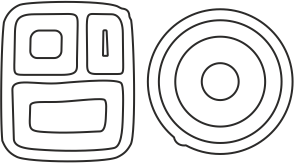
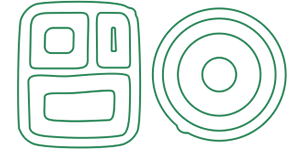
resizing of product grid bioware

Changed region(s): [[0.0, 0.0, 1.0, 1.0]]

diff --git a/pages/bioware/bioware_home.tsx b/pages/bioware/bioware_home.tsx
@@ -90,11 +90,11 @@ const BiowareHome = () => {
                         everyday needs.
                     </p>
                 </div>
-                <div className="bg-gray-100 border-solid border mx-40 px-2 py-10 grid grid-cols-6 items-center">
+                <div className="bg-gray-100 border-solid border mx-40 px-3 py-12 grid grid-cols-6 items-center">
                     {images.gridProductsImage.map((item, index) => {
                         return (
                             <div className="flex justify-center" key={index}>
-                                <img alt={item.alt} src={item.src} className="w-[70%] h-[70%]" />
+                                <img alt={item.alt} src={item.src} className="w-11/12 h-11/12" />
                             </div>
                         )
                     })}
